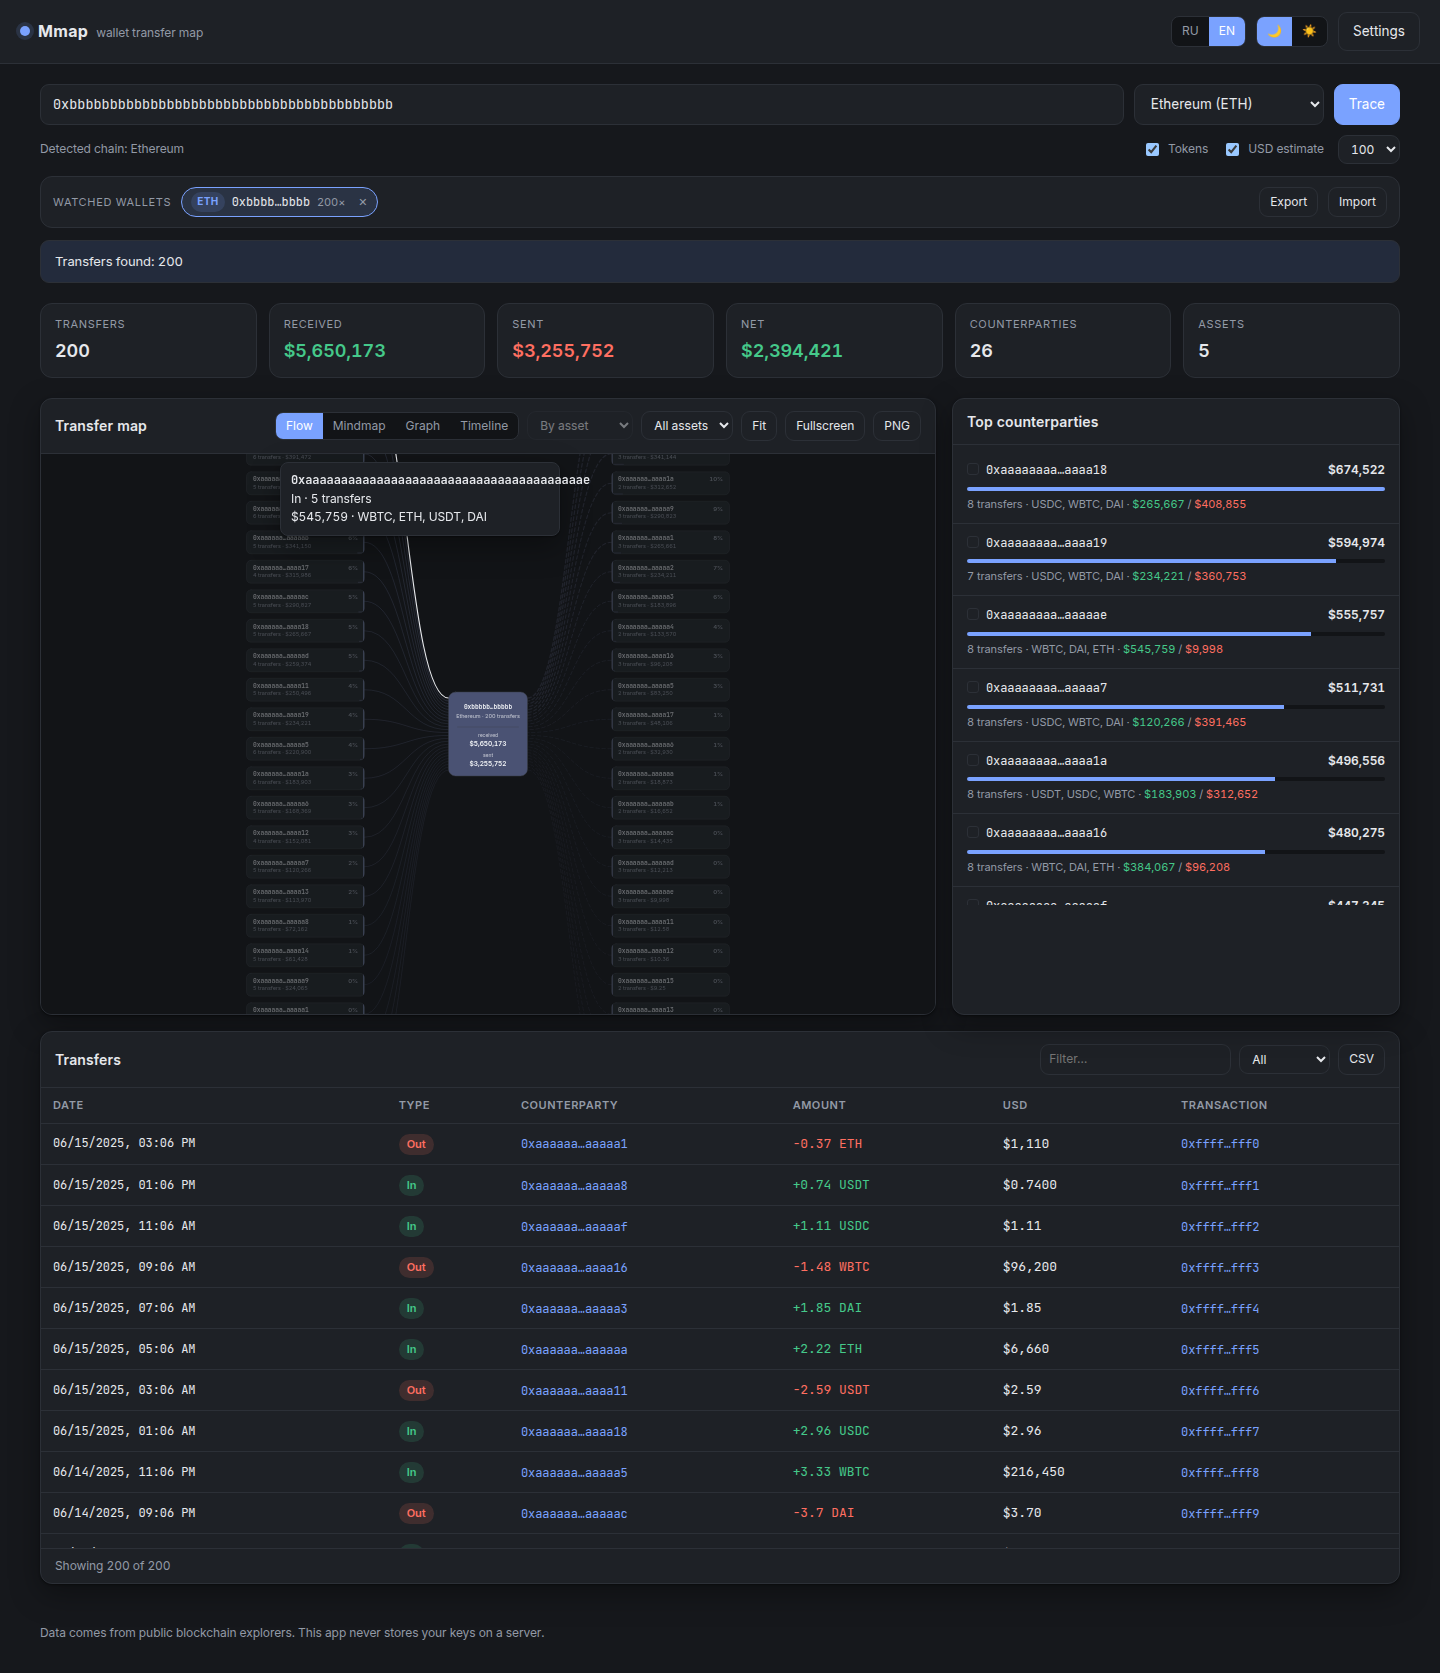
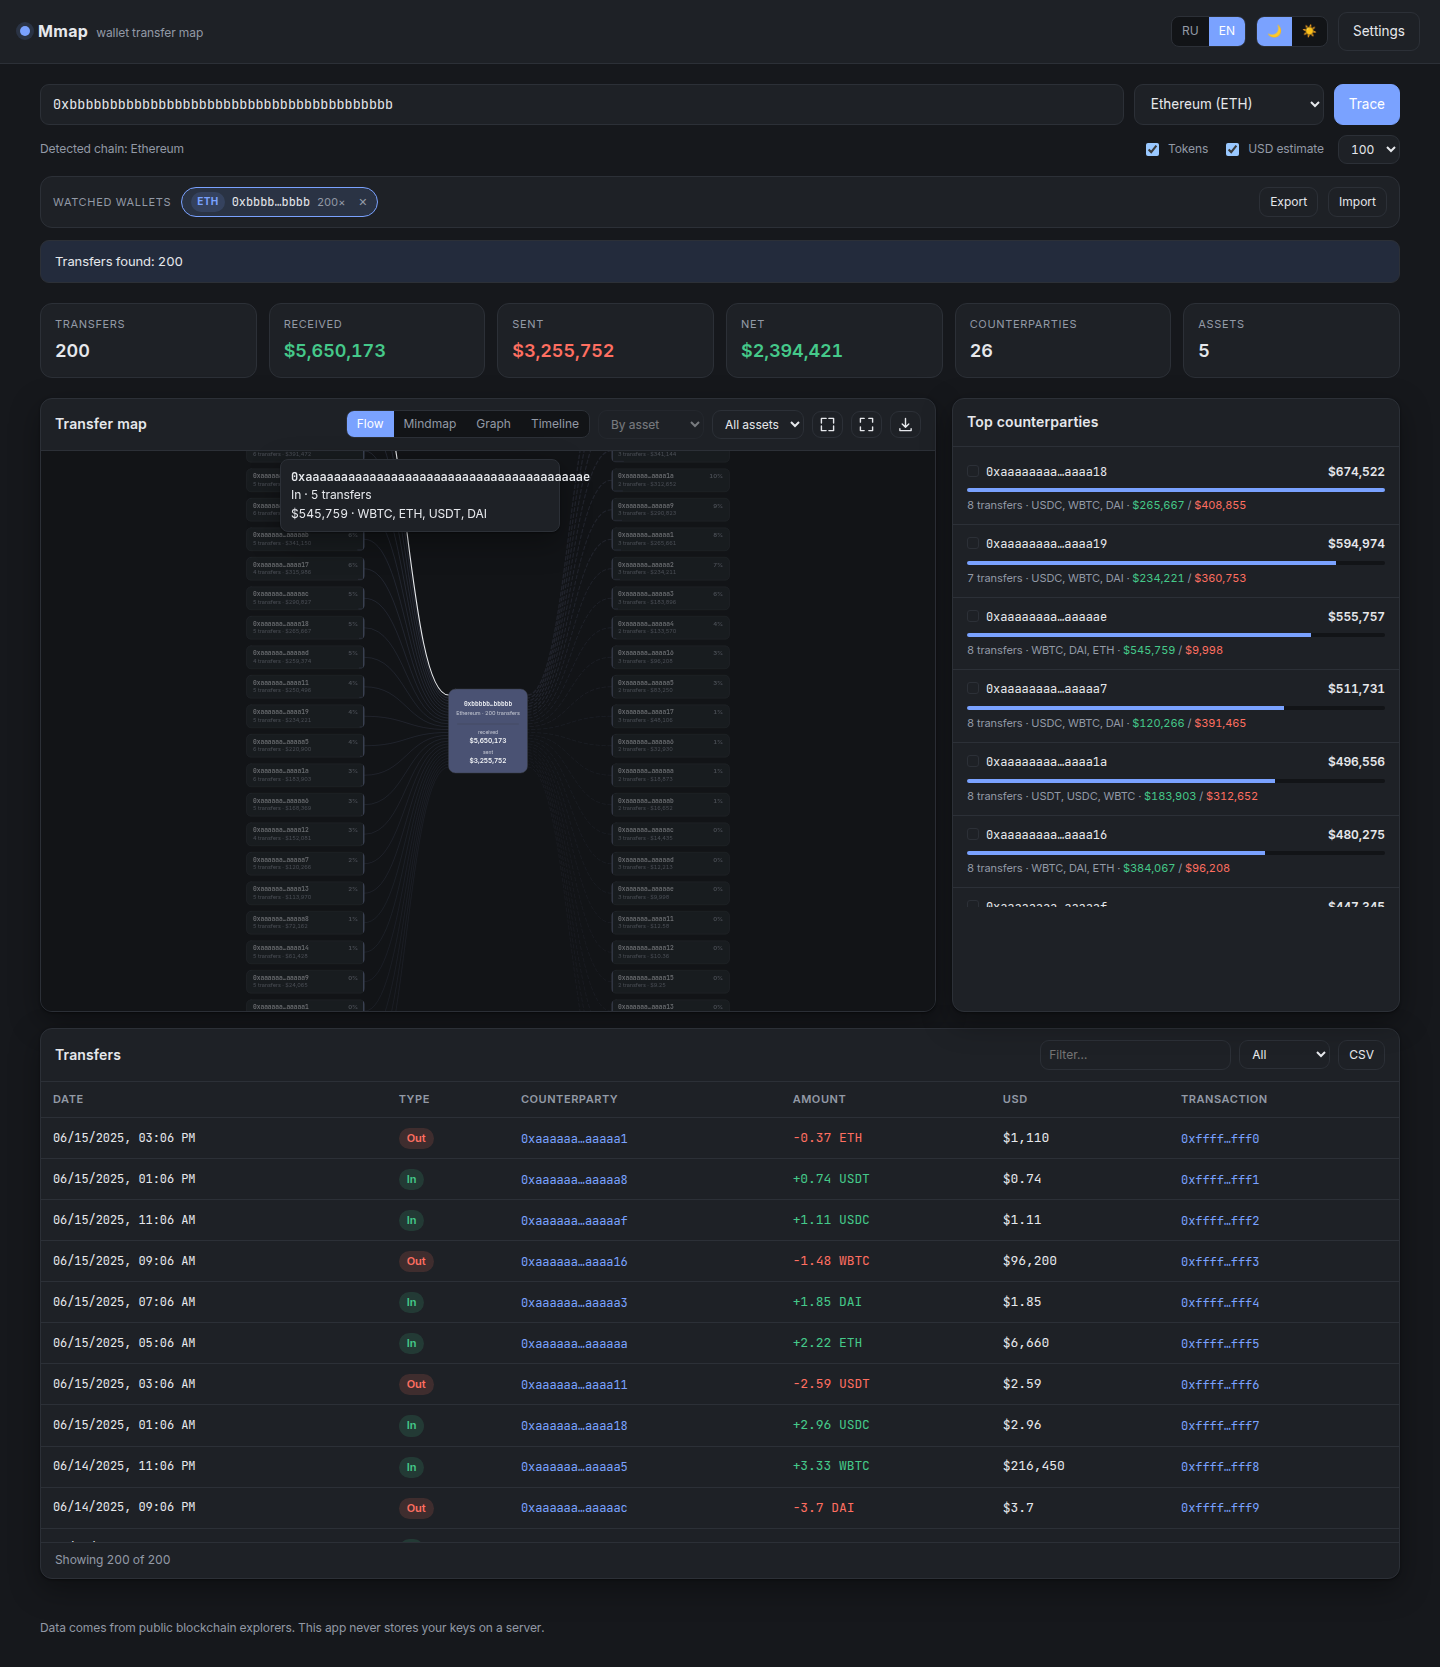
Fix the shrunken map, the wrapped panel header and $0.0000
Problems visible on a real Tron wallet:

- a map laid out before the panel had its final width stayed at that scale and
  sat tiny in an empty panel; every view now refits on resize until the user
  pans or zooms it themselves, and a small map is allowed to scale up
- an empty side no longer reserves its column, so the wallet stays centred when
  a wallet only received or only sent
- panel header no longer wraps to two rows: the title stays on one line and fit,
  fullscreen and PNG became icon buttons with tooltips
- money formatting: zero renders as $0 instead of $0.0000, and small amounts drop
  their trailing zeros
- HTTP 429 now says which chain is rate limited and that an API key raises the
  limit, instead of the raw "rate limited (429)"; one more retry with longer backoff

diff --git a/assets/js/flows.js b/assets/js/flows.js
@@ -28,6 +28,11 @@ class CanvasView {
     };
   }
 
+  /*
+   * Пока пользователь сам не двигал и не масштабировал схему, она вписывается
+   * заново на каждое изменение размера: иначе карта, посчитанная под ещё не
+   * разложенную панель, остаётся крохотной в пустом поле.
+   */
   resize() {
     const dpr = window.devicePixelRatio || 1;
     const rect = this.canvas.parentElement.getBoundingClientRect();
@@ -35,7 +40,7 @@ class CanvasView {
     this.canvas.height = Math.max(1, rect.height * dpr);
     this.w = rect.width; this.h = rect.height; this.dpr = dpr;
     this.layout?.();
-    this.draw();
+    if (this.touched) this.draw(); else this.fit();
   }
 
   toWorld(mx, my) {
@@ -67,7 +72,7 @@ class CanvasView {
       const r = cv.getBoundingClientRect();
       const mx = e.clientX - r.left, my = e.clientY - r.top;
       if (drag) {
-        if (Math.abs(mx - drag.ox) + Math.abs(my - drag.oy) > 3) drag.moved = true;
+        if (Math.abs(mx - drag.ox) + Math.abs(my - drag.oy) > 3) { drag.moved = true; this.touched = true; }
         this.view.x = drag.vx + (mx - drag.ox);
         this.view.y = drag.vy + (my - drag.oy);
         this.draw();
@@ -102,6 +107,7 @@ class CanvasView {
     });
     cv.addEventListener('wheel', e => {
       e.preventDefault();
+      this.touched = true;
       const r = cv.getBoundingClientRect();
       const mx = e.clientX - r.left, my = e.clientY - r.top;
       const k = e.deltaY < 0 ? 1.12 : 1 / 1.12;
@@ -152,6 +158,7 @@ class CanvasView {
 class FlowMap extends CanvasView {
   setData(data) {
     this.data = data;
+    this.touched = false;
     this.resize();
     this.fit();
   }
@@ -159,7 +166,8 @@ class FlowMap extends CanvasView {
   layout() {
     const d = this.data;
     if (!d || !this.w) return;
-    const CARD_W = 236, CARD_H = 46, ROW_GAP = 13, LINK_W = 168;
+    const few = Math.max(d.sources.length, d.dests.length) <= 6;
+    const CARD_W = 236, CARD_H = 46, ROW_GAP = 13, LINK_W = few ? 104 : 168;
     const CENTER_W = 158, CENTER_H = 168;
 
     const column = (list, x) => {
@@ -173,7 +181,13 @@ class FlowMap extends CanvasView {
       }));
     };
 
-    const rightX = CARD_W + LINK_W + CENTER_W + LINK_W;
+    // пустая сторона не занимает место: иначе кошелёк уезжает вбок от пустой колонки
+    const leftW = d.sources.length ? CARD_W : 0;
+    const rightW = d.dests.length ? CARD_W : 0;
+    const leftGap = leftW ? LINK_W : 0;
+    const rightGap = rightW ? LINK_W : 0;
+    const centerX = leftW + leftGap;
+    const rightX = centerX + CENTER_W + rightGap;
     this.left = column(d.sources, 0);
     this.right = column(d.dests, rightX);
 
@@ -183,7 +197,7 @@ class FlowMap extends CanvasView {
     this.left.forEach(b => { b.y += (maxH - leftH) / 2; });
     this.right.forEach(b => { b.y += (maxH - rightH) / 2; });
 
-    this.center = { x: CARD_W + LINK_W, y: (maxH - CENTER_H) / 2, w: CENTER_W, h: CENTER_H };
+    this.center = { x: centerX, y: (maxH - CENTER_H) / 2, w: CENTER_W, h: CENTER_H };
 
     /*
      * Каждая связь приходит в собственную точку на грани центрального узла:
@@ -202,7 +216,7 @@ class FlowMap extends CanvasView {
     anchors(this.left, this.center.x);
     anchors(this.right, this.center.x + this.center.w);
 
-    this.bounds = { x0: -12, x1: rightX + CARD_W + 12, y0: -30, y1: maxH + 12 };
+    this.bounds = { x0: -12, x1: rightX + rightW + 12, y0: -30, y1: maxH + 12 };
     this.items = [...this.left, ...this.right];
   }
 
@@ -214,8 +228,8 @@ class FlowMap extends CanvasView {
   fit() {
     const b = this.bounds;
     if (!b || !this.w) return;
-    const pad = 22, MIN_FIT = 0.5;
-    const raw = Math.min(this.w / (b.x1 - b.x0 + pad * 2), this.h / (b.y1 - b.y0 + pad * 2), 1.1);
+    const pad = 22, MIN_FIT = 0.5, MAX_FIT = 1.35;
+    const raw = Math.min(this.w / (b.x1 - b.x0 + pad * 2), this.h / (b.y1 - b.y0 + pad * 2), MAX_FIT);
     this.view.scale = Math.max(MIN_FIT, raw);
     const s = this.view.scale;
     this.view.x = this.w / 2 - ((b.x0 + b.x1) / 2) * s;
@@ -360,6 +374,7 @@ class FlowMap extends CanvasView {
 class Timeline extends CanvasView {
   setData(data) {
     this.data = data;
+    this.touched = false;
     this.resize();
     this.fit();
   }

diff --git a/assets/js/app.js b/assets/js/app.js
@@ -121,8 +121,9 @@ function toggleFullscreen(force) {
   const on = force ?? !panel.classList.contains('fullscreen');
   panel.classList.toggle('fullscreen', on);
   document.body.classList.toggle('fs-lock', on);
-  el('graph-full').textContent = t(on ? 'graph.exit' : 'graph.full');
-  el('graph-full').dataset.i18n = on ? 'graph.exit' : 'graph.full';
+  const btn = el('graph-full');
+  btn.title = t(on ? 'graph.exit' : 'graph.full');
+  btn.dataset.i18nAttr = 'title:' + (on ? 'graph.exit' : 'graph.full');
   // размеры канваса зависят от контейнера — пересобираем схему под новый размер
   requestAnimationFrame(() => {
     const v = activeView();
@@ -205,7 +206,11 @@ async function scan() {
     location.hash = `${chain}:${address}`;
   } catch (e) {
     console.error(e);
-    status(t('msg.error', { e: e.message || e }), true);
+    // лимит провайдера — отдельный случай: подсказываем, что делать, и не трогаем то, что уже показано
+    const msg = /RATE_LIMIT/.test(e.message || '')
+      ? t('msg.ratelimit', { c: CHAINS[chain]?.name || chain })
+      : t('msg.error', { e: e.message || e });
+    status(msg, true);
   } finally {
     btn.disabled = false;
   }
@@ -431,8 +436,8 @@ function buildFlow() {
     labelOut: t('flow.receivers', { n: sides.out.size }),
     inWord: t('flow.inWord'),
     outWord: t('flow.outWord'),
-    inTotal: usdIn ? fmtUsd(usdIn) : fmtAmount(amtIn),
-    outTotal: usdOut ? fmtUsd(usdOut) : fmtAmount(amtOut)
+    inTotal: usdIn ? fmtUsd(usdIn) : (amtIn ? fmtAmount(amtIn) : fmtUsd(0)),
+    outTotal: usdOut ? fmtUsd(usdOut) : (amtOut ? fmtAmount(amtOut) : fmtUsd(0))
   };
 }
 

diff --git a/assets/js/mindmap.js b/assets/js/mindmap.js
@@ -41,6 +41,7 @@ class MindMap {
       const leaves = (tree.children || []).reduce((n, g) => n + (g.children?.length || 0), 0);
       if (leaves > 40) for (const g of tree.children || []) this.collapsed.add(g.key);
     }
+    this.touched = false;
     this.resize();
     this.layout();
     this.fit();
@@ -108,7 +109,9 @@ class MindMap {
     this.canvas.width = Math.max(1, rect.width * dpr);
     this.canvas.height = Math.max(1, rect.height * dpr);
     this.w = rect.width; this.h = rect.height; this.dpr = dpr;
-    this.draw();
+    this.layout();
+    // пока схему не трогали руками, она вписывается заново под новый размер
+    if (this.touched) this.draw(); else this.fit();
   }
 
   /*
@@ -292,7 +295,7 @@ class MindMap {
       const r = cv.getBoundingClientRect();
       const mx = e.clientX - r.left, my = e.clientY - r.top;
       if (drag) {
-        if (Math.abs(mx - drag.ox) + Math.abs(my - drag.oy) > 3) drag.moved = true;
+        if (Math.abs(mx - drag.ox) + Math.abs(my - drag.oy) > 3) { drag.moved = true; this.touched = true; }
         this.view.x = drag.vx + (mx - drag.ox);
         this.view.y = drag.vy + (my - drag.oy);
         this.draw();
@@ -332,6 +335,7 @@ class MindMap {
 
     cv.addEventListener('wheel', e => {
       e.preventDefault();
+      this.touched = true;
       const r = cv.getBoundingClientRect();
       const mx = e.clientX - r.left, my = e.clientY - r.top;
       const k = e.deltaY < 0 ? 1.12 : 1 / 1.12;

diff --git a/index.html b/index.html
@@ -96,9 +96,15 @@
           <option value="dir" data-i18n="group.dir">По направлению</option>
         </select>
         <select id="graph-asset" class="input select small"></select>
-        <button class="btn ghost small" id="graph-fit" data-i18n="graph.fit">По размеру</button>
-        <button class="btn ghost small" id="graph-full" data-i18n="graph.full">На весь экран</button>
-        <button class="btn ghost small" id="graph-export" data-i18n="graph.export">PNG</button>
+        <button class="btn ghost icon" id="graph-fit" title="По размеру" data-i18n-attr="title:graph.fit">
+          <svg viewBox="0 0 16 16" aria-hidden="true"><path d="M6.5 1.5h-5v5M9.5 14.5h5v-5M1.5 9.5v5h5M14.5 6.5v-5h-5"/></svg>
+        </button>
+        <button class="btn ghost icon" id="graph-full" title="На весь экран" data-i18n-attr="title:graph.full">
+          <svg viewBox="0 0 16 16" aria-hidden="true"><path d="M1.5 5.5v-4h4M10.5 1.5h4v4M14.5 10.5v4h-4M5.5 14.5h-4v-4"/></svg>
+        </button>
+        <button class="btn ghost icon" id="graph-export" title="PNG" data-i18n-attr="title:graph.export">
+          <svg viewBox="0 0 16 16" aria-hidden="true"><path d="M8 1.5v9M4.5 7.5 8 11l3.5-3.5M2 12.5v2h12v-2"/></svg>
+        </button>
       </div>
     </div>
     <div class="graph-wrap">

diff --git a/assets/js/utils.js b/assets/js/utils.js
@@ -22,9 +22,12 @@ function fmtAmount(n, decimals = 6) {
 
 function fmtUsd(n) {
   if (n === null || n === undefined || !isFinite(n)) return '—';
+  if (n === 0) return '$0';
   const abs = Math.abs(n);
+  // мелочь показываем точнее, но без хвоста нулей: $0.0000 читается как мусор
   const d = abs >= 1000 ? 0 : abs >= 1 ? 2 : 4;
-  return '$' + n.toLocaleString('en-US', { maximumFractionDigits: d, minimumFractionDigits: d });
+  const body = n.toLocaleString('en-US', { maximumFractionDigits: d, minimumFractionDigits: 0 });
+  return '$' + body;
 }
 
 function fmtDate(ts) {
@@ -45,12 +48,16 @@ function scaleUnits(raw, decimals) {
   return Number(int + '.' + frac);
 }
 
-async function fetchJson(url, opts = {}, retries = 2) {
+async function fetchJson(url, opts = {}, retries = 3) {
   let lastErr;
   for (let i = 0; i <= retries; i++) {
     try {
       const res = await fetch(url, opts);
-      if (res.status === 429) { await sleep(900 * (i + 1)); lastErr = new Error('rate limited (429)'); continue; }
+      if (res.status === 429) {
+        await sleep(1200 * (i + 1));
+        lastErr = new Error('RATE_LIMIT');
+        continue;
+      }
       if (!res.ok) throw new Error('HTTP ' + res.status);
       return await res.json();
     } catch (e) {

diff --git a/assets/js/graph.js b/assets/js/graph.js
@@ -50,6 +50,7 @@ class TransferGraph {
       this.edges.push({ a: 0, b: this.nodes.length - 1, w: weight, peer: p });
     });
 
+    this.touched = false;
     this.resize();
     this.fit();
     this.simulate(240);
@@ -95,7 +96,7 @@ class TransferGraph {
     this.canvas.width = Math.max(1, rect.width * dpr);
     this.canvas.height = Math.max(1, rect.height * dpr);
     this.w = rect.width; this.h = rect.height; this.dpr = dpr;
-    this.draw();
+    if (this.touched) this.draw(); else this.fit();
   }
 
   fit() {
@@ -195,6 +196,7 @@ class TransferGraph {
     cv.addEventListener('mousemove', e => {
       const r = cv.getBoundingClientRect();
       const mx = e.clientX - r.left, my = e.clientY - r.top;
+      if (drag?.pan || drag?.node) this.touched = true;
       if (drag?.pan) {
         this.view.x = drag.vx + (mx - drag.ox);
         this.view.y = drag.vy + (my - drag.oy);
@@ -218,6 +220,7 @@ class TransferGraph {
 
     cv.addEventListener('wheel', e => {
       e.preventDefault();
+      this.touched = true;
       const r = cv.getBoundingClientRect();
       const mx = e.clientX - r.left, my = e.clientY - r.top;
       const k = e.deltaY < 0 ? 1.12 : 1 / 1.12;

diff --git a/assets/js/i18n.js b/assets/js/i18n.js
@@ -82,6 +82,7 @@ const I18N = {
     'msg.needkey': 'Для этой сети нужен Etherscan API-ключ — добавьте его в настройках',
     'msg.done': 'Найдено переводов: {n}',
     'msg.error': 'Ошибка: {e}',
+    'msg.ratelimit': '{c}: провайдер ограничил частоту запросов. Подождите минуту и повторите, либо добавьте ключ API в настройках — с ключом лимит выше.',
     'dir.in': 'Вход',
     'dir.out': 'Выход',
     'detected': 'Сеть определена: {c}',
@@ -170,6 +171,7 @@ const I18N = {
     'msg.needkey': 'This chain needs an Etherscan API key — add it in settings',
     'msg.done': 'Transfers found: {n}',
     'msg.error': 'Error: {e}',
+    'msg.ratelimit': '{c}: the provider is rate limiting requests. Wait a minute and retry, or add an API key in settings — the limit is higher with one.',
     'dir.in': 'In',
     'dir.out': 'Out',
     'detected': 'Detected chain: {c}',

diff --git a/assets/css/styles.css b/assets/css/styles.css
@@ -133,6 +133,8 @@ a:hover { text-decoration: underline; text-decoration-color: var(--text-dim); }
 .btn.primary:hover { opacity: .9; }
 .btn.ghost { background: transparent; }
 .btn.small { padding: 5px 10px; font-size: 12px; }
+.btn.icon { padding: 5px 7px; display: inline-flex; align-items: center; justify-content: center; }
+.btn.icon svg { width: 15px; height: 15px; fill: none; stroke: currentColor; stroke-width: 1.5; stroke-linecap: round; stroke-linejoin: round; }
 .btn:disabled { opacity: .5; cursor: default; }
 
 .input {
@@ -238,8 +240,9 @@ a:hover { text-decoration: underline; text-decoration-color: var(--text-dim); }
 }
 .panel-head {
   display: flex; align-items: center; gap: 10px;
-  padding: 12px 14px; border-bottom: 1px solid var(--line);
+  padding: 11px 14px; border-bottom: 1px solid var(--line); min-height: 48px;
 }
+.panel-head h2 { white-space: nowrap; }
 .panel-tools { margin-left: auto; display: flex; gap: 8px; align-items: center; flex-wrap: wrap; justify-content: flex-end; }
 
 /* ---------- graph ---------- */
